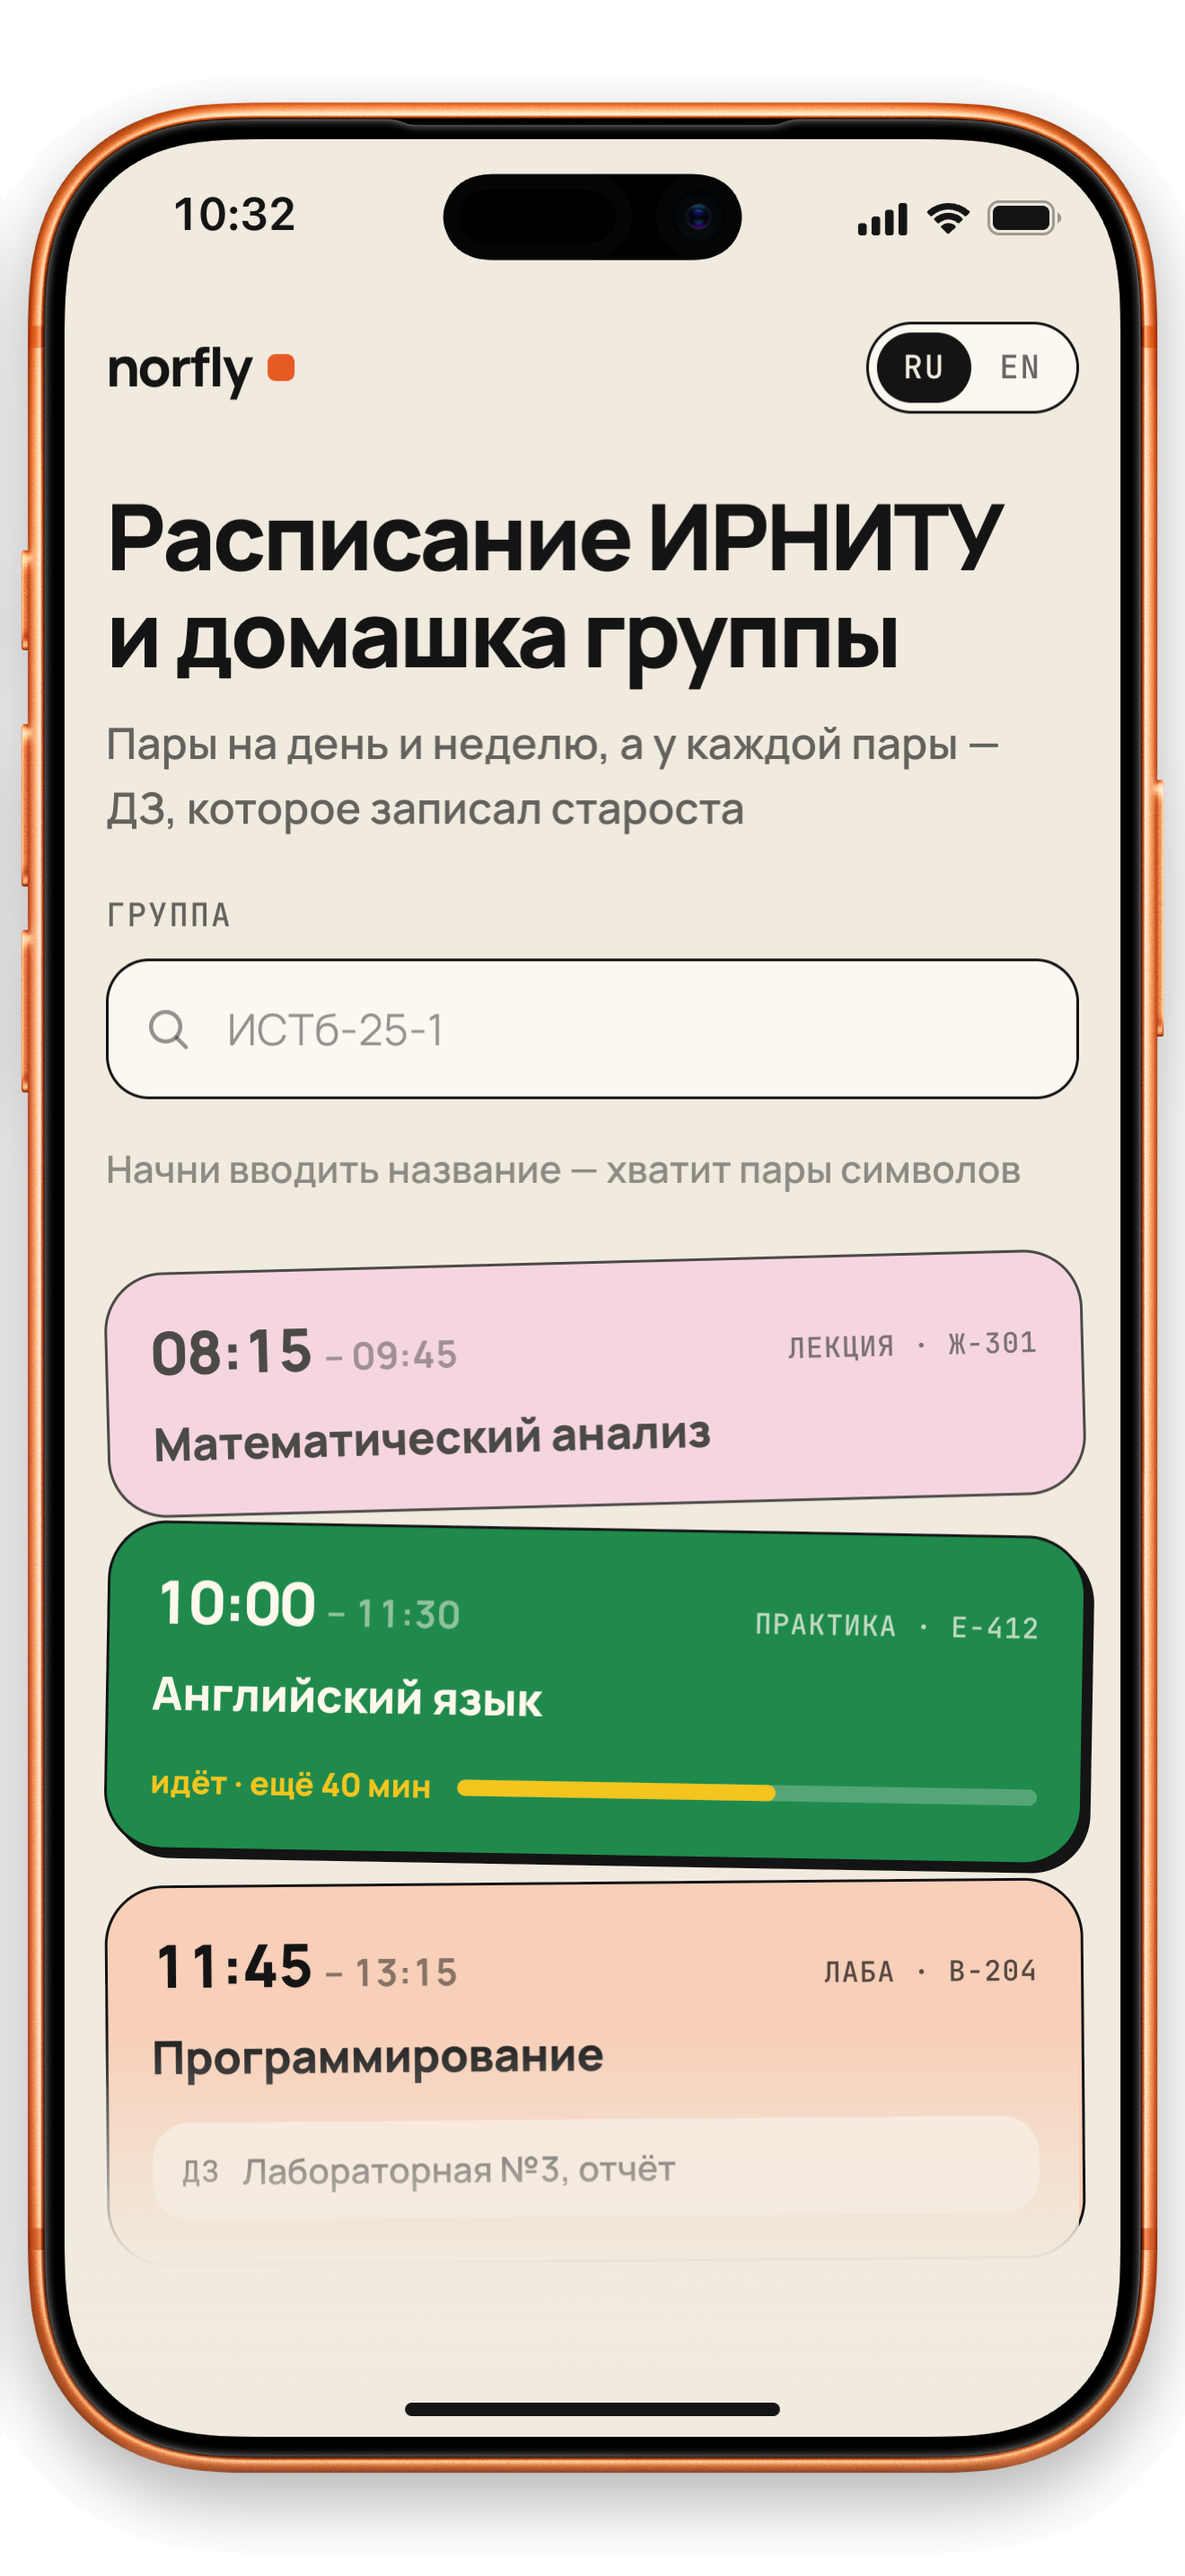
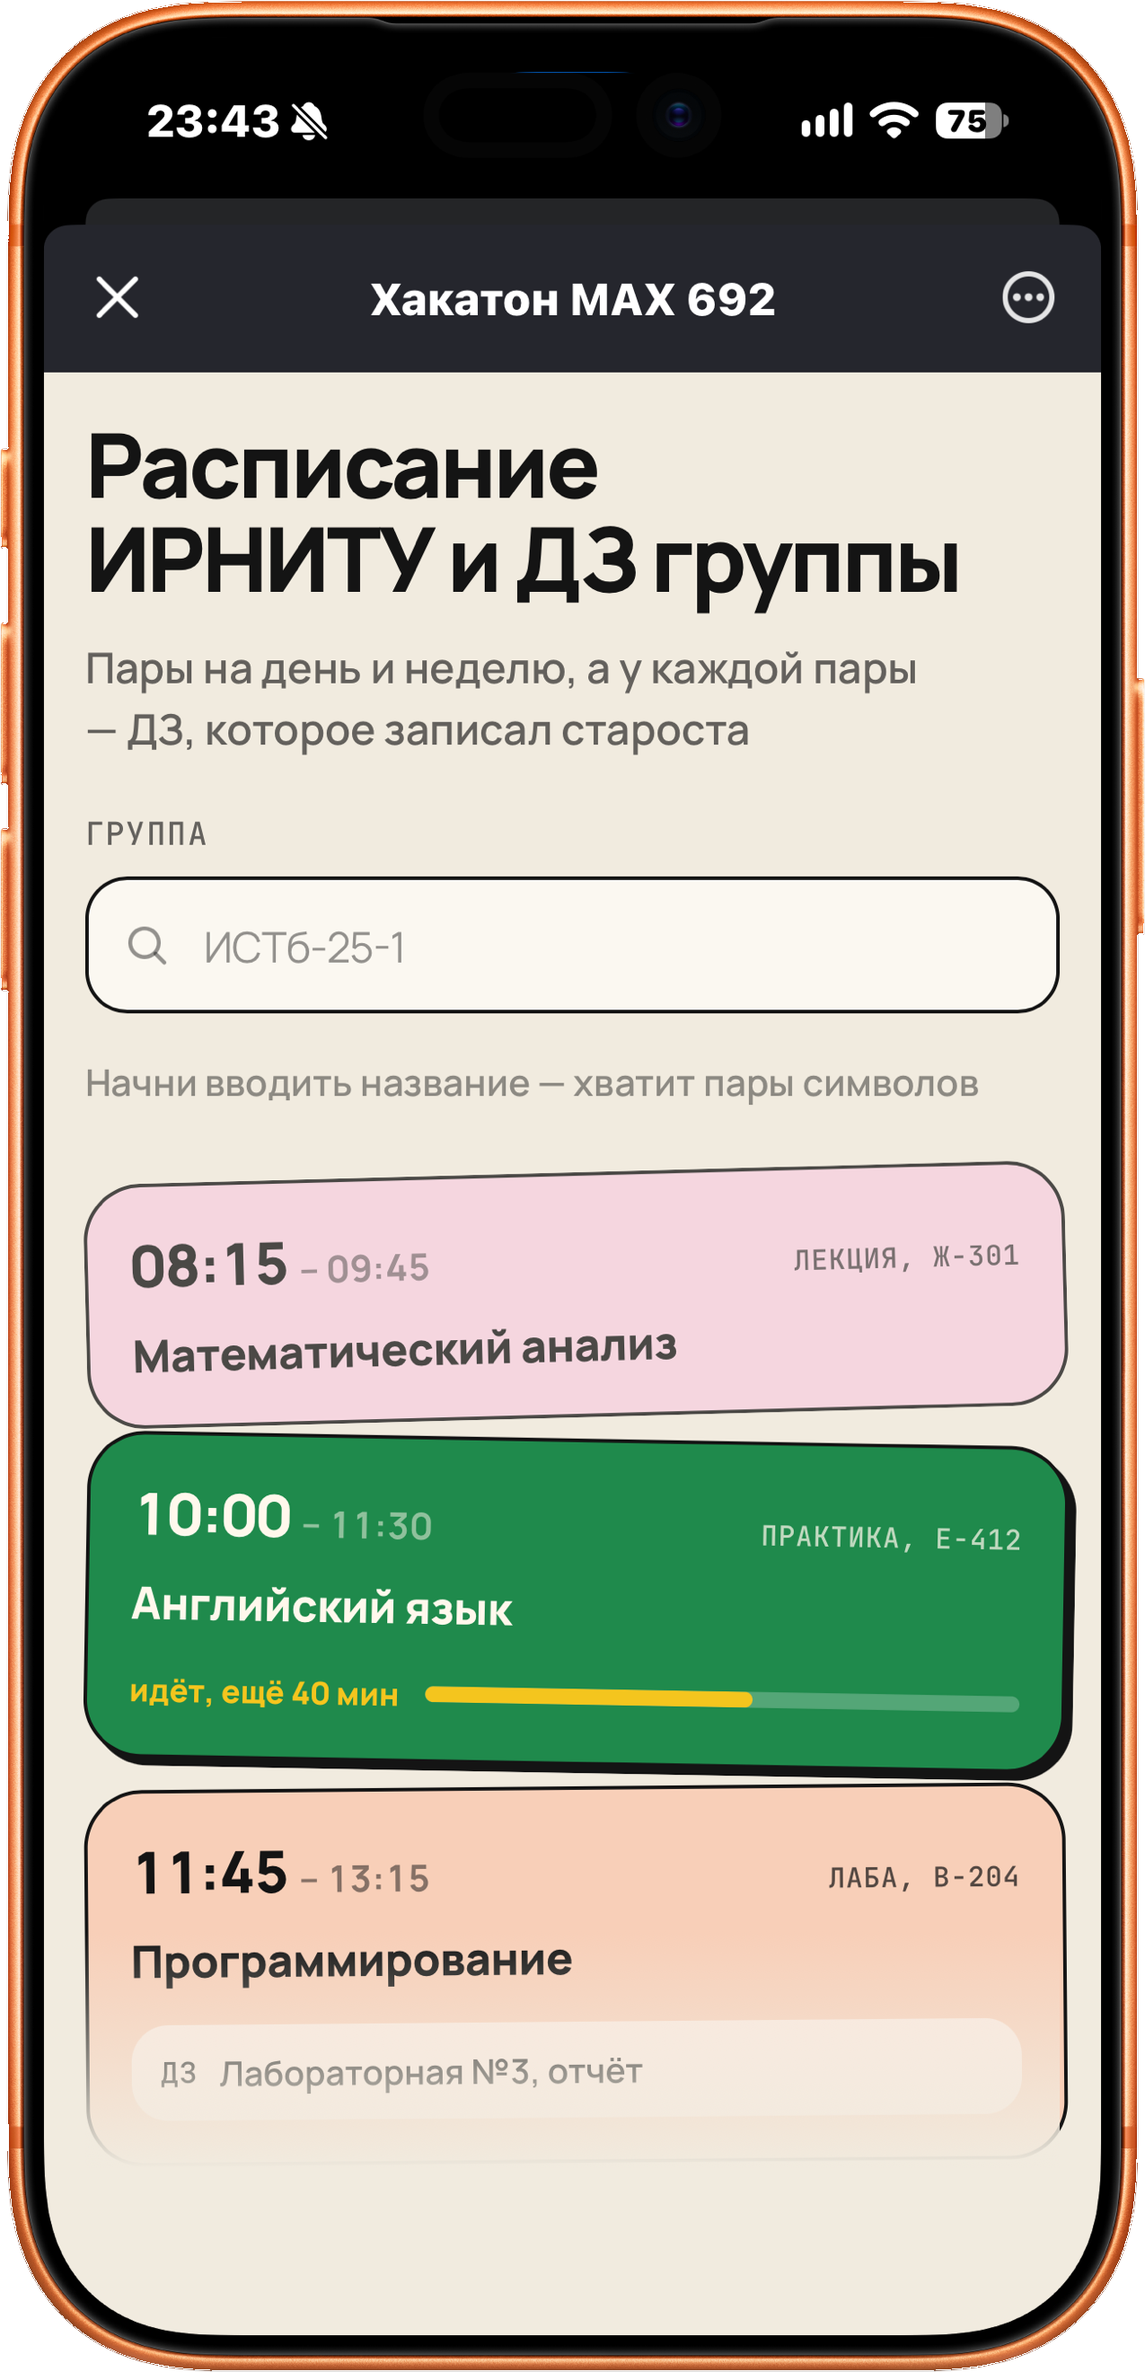
Параметры окружения в README, новый скриншот поиска группы и полное слово «Лабораторная» в онбординге

diff --git a/webapp/src/lib/i18n.tsx b/webapp/src/lib/i18n.tsx
@@ -75,7 +75,7 @@ const ru = {
   language: 'Язык',
   previewLecture: 'Лекция, Ж-301',
   previewPractice: 'Практика, Е-412',
-  previewLab: 'Лаба, В-204',
+  previewLab: 'Лабораторная, В-204',
   previewSubjectOne: 'Математический анализ',
   previewSubjectTwo: 'Английский язык',
   previewSubjectThree: 'Программирование',

diff --git a/README.md b/README.md
@@ -197,6 +197,14 @@ docker compose logs -f     # смотреть логи
 
 Для одного токена бота должен работать один экземпляр: перед локальным запуском с рабочим токеном остановите другой процесс с этим же токеном.
 
+## 🖥 Параметры окружения
+
+- Docker Engine с Docker Compose v2. Для разработки без Docker — Node.js 22 (минимум 20).
+- Около 512 МБ свободной памяти и 1 ГБ места на диске: образ весит примерно 240 МБ, расписание семестра — около 90 МБ.
+- Исходящий доступ в интернет к MAX Bot API (`platform-api2.max.ru`) и API ИРНИТУ (`schedule.istu.edu`).
+- Часовой пояс контейнера — `Asia/Irkutsk`, задан в `Dockerfile`.
+- Для кнопки мини-приложения внутри MAX нужен публичный HTTPS-адрес (`MINI_APP_URL`). Локально приложение открывается по HTTP в браузере.
+
 ## ⚙ Переменные окружения
 
 | Переменная | Обязательна | По умолчанию | Назначение |
